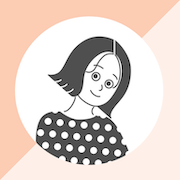
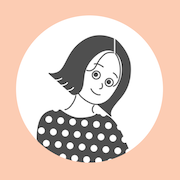
update background color

diff --git a/dist/css/style.css b/dist/css/style.css
@@ -28,7 +28,7 @@
  Style
 ***********************/
 body {
-  background-color: var(--ah_bg-color);
+  background-color: var(--ah_main-color);
 }
 
 .ah_wrapper {
@@ -349,6 +349,7 @@ footer
 .ah_mv {
   height: 100vh;
   width: 100vw;
+  background-color: var(--ah_bg-color);
 }
 @media screen and (max-width: 768px) {
   .ah_mv {
@@ -793,11 +794,15 @@ footer
 /**********************
  skills
 ***********************/
-.ah_aboutus .ah_block-header {
+.ah_about {
+  background-color: var(--ah_bg-color);
+}
+.ah_about .ah_block-header {
   padding: 4rem 0 0 0;
 }
 .ah_skills {
   position: relative;
+  background-color: var(--ah_bg-color);
 }
 .ah_skills::after {
   position: absolute;

diff --git a/src/sass/contents/_skills.scss b/src/sass/contents/_skills.scss
@@ -4,7 +4,9 @@
  skills
 ***********************/
 .#{$siteName} {
-  &_aboutus {
+  &_about {
+    background-color: var(--#{$siteName}_bg-color);
+
     .#{$siteName}_block-header {
       padding: 4rem 0 0 0;
     }
@@ -12,6 +14,7 @@
 
   &_skills {
     position: relative;
+    background-color: var(--#{$siteName}_bg-color);
 
     &::after {
       position: absolute;

diff --git a/src/sass/style.scss b/src/sass/style.scss
@@ -34,7 +34,7 @@ $siteName: 'ah';
 ***********************/
 
 body {
-	background-color: var(--#{$siteName}_bg-color);
+	background-color: var(--#{$siteName}_main-color);
 }
 
 .#{$siteName} {

diff --git a/src/sass/contents/_mv.scss b/src/sass/contents/_mv.scss
@@ -7,6 +7,7 @@
   &_mv {
   	height: 100vh;
     width: 100vw;
+    background-color: var(--#{$siteName}_bg-color);
 
   	@include mediaQuery(m) {
   		height: auto;
